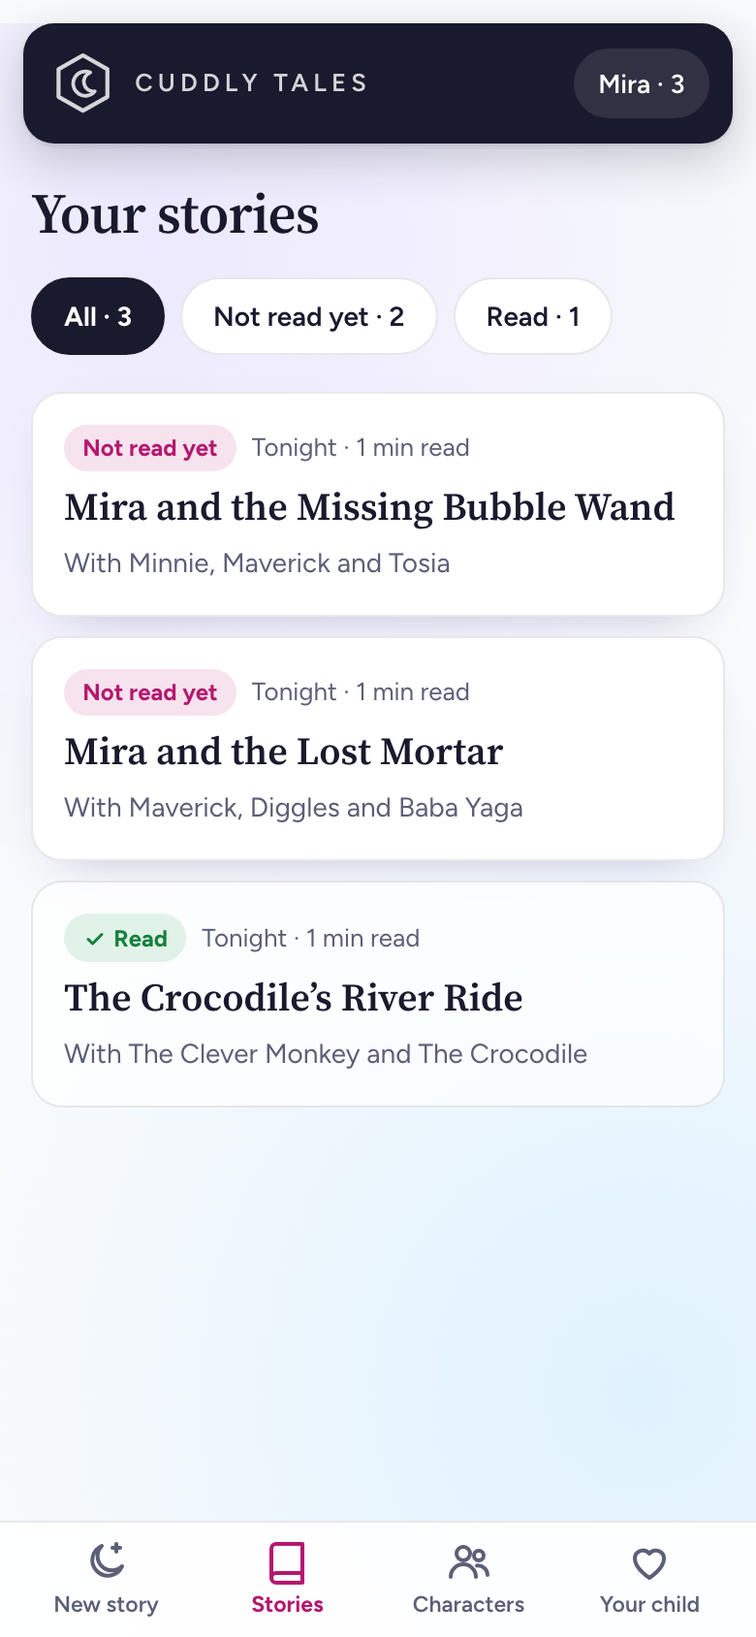
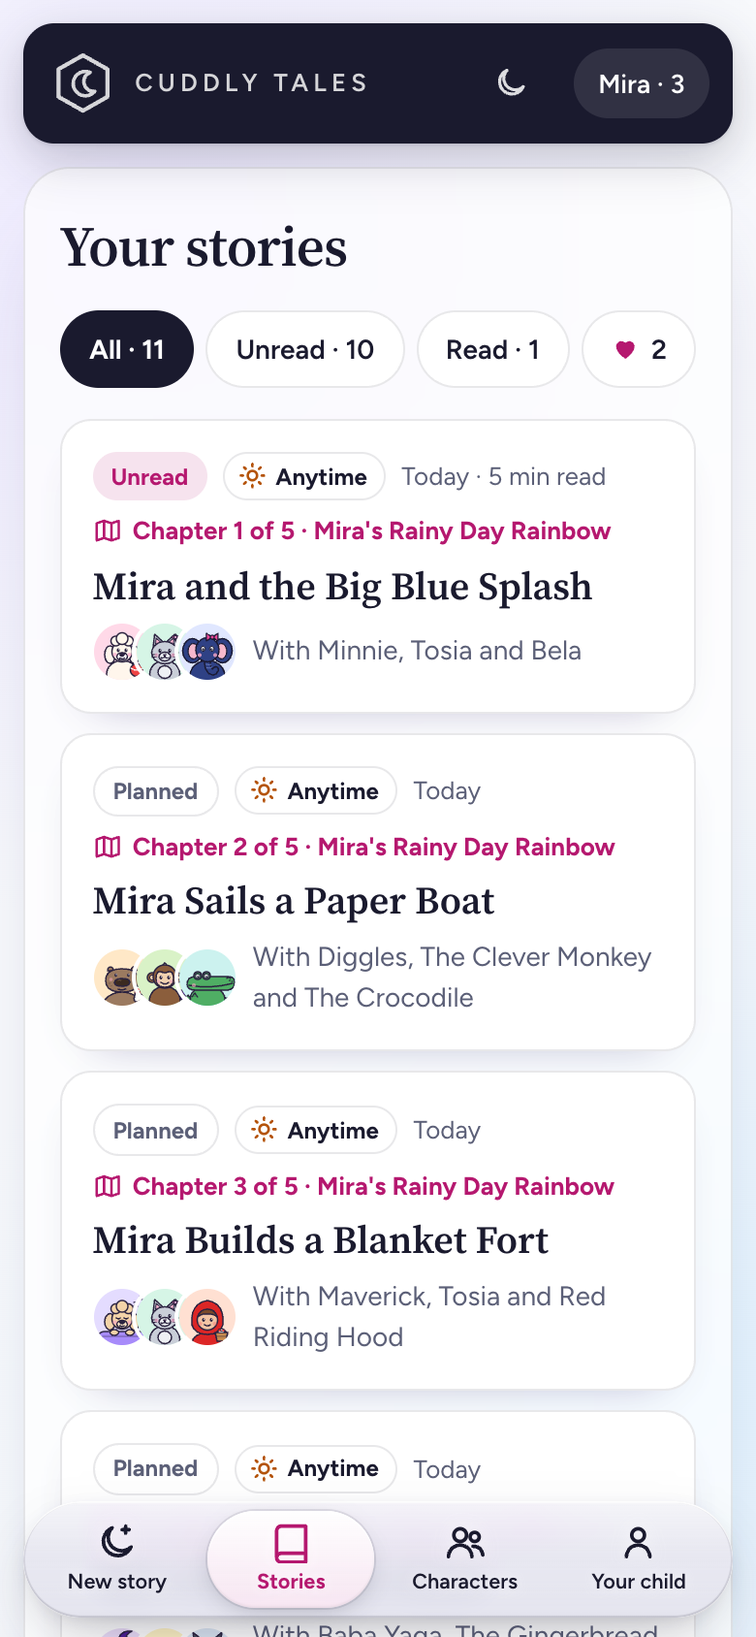
Redraw the diagrams for Day 2; a script to export them
Architecture: the planner page, the safety check, the adventure agent,
Langfuse traces and the Langfuse keys; the 18:30 job still dashed. Story
flow: the safety check and the one rewrite. scripts/export-diagrams.py
writes the README's SVGs from docs/architecture.html.

diff --git a/docs/architecture.html b/docs/architecture.html
@@ -93,14 +93,14 @@ code { font: 13px var(--font-mono); }
   <header>
     <span class="eyebrow">Live on AWS · cuddly-tales.ukdoshi.com</span>
     <h1>Cuddly Tales architecture</h1>
-    <p class="lede">A parent picks characters, an LLM writes a bedtime story starring their child, and the story streams to the phone word by word, then is saved to read again. The Angular app and the FastAPI API run on AWS, defined with the CDK, alongside ukdoshi.com and lab.ukdoshi.com. Dashed parts come next.</p>
+    <p class="lede">A parent picks characters, an LLM writes a story starring their child, a safety and age check reads it, and it streams to the phone word by word, then is saved to read again, page by page. An agent can also plan a whole adventure, one chapter a day, with every step shown. The Angular app and the FastAPI API run on AWS, defined with the CDK, alongside ukdoshi.com and lab.ukdoshi.com; every model call is traced in Langfuse. Dashed parts come next.</p>
   </header>
 
   <section>
     <h2>What runs where</h2>
     <figure>
       <div class="scroller">
-        <svg viewBox="0 0 1110 540" role="img" aria-label="Architecture: the Angular app on a phone talks to CloudFront at cuddly-tales.ukdoshi.com. CloudFront serves the app's files from S3 and sends /api requests, with a secret header, to FastAPI on AWS Lambda through a streaming Function URL. The Lambda reads its secrets from Secrets Manager, calls the Anthropic API through LiteLLM and stores data in Neon Postgres. GitHub Actions deploys everything with the CDK. Langfuse tracing and the EventBridge scheduled job come later.">
+        <svg viewBox="0 0 1110 590" role="img" aria-label="Architecture: the Angular app on a phone talks to CloudFront at cuddly-tales.ukdoshi.com. CloudFront serves the app's files from S3 and sends /api requests, with a secret header, to FastAPI on AWS Lambda through a streaming Function URL. In the Lambda, the story service streams stories and runs the safety check, the adventure agent plans adventures with tools, and llm.py calls the Anthropic API through LiteLLM and sends a trace of every call to Langfuse. Data is in Neon Postgres; secrets come from Secrets Manager. GitHub Actions deploys everything with the CDK. The EventBridge scheduled job comes next.">
           <defs>
             <marker id="a1" viewBox="0 0 10 10" refX="9" refY="5" markerWidth="7" markerHeight="7" orient="auto-start-reverse"><path d="M0,0 L10,5 L0,10 z" class="ah"/></marker>
             <marker id="a2" viewBox="0 0 10 10" refX="9" refY="5" markerWidth="6" markerHeight="6" orient="auto-start-reverse"><path d="M0,0 L10,5 L0,10 z" class="ah-acc"/></marker>
@@ -108,21 +108,27 @@ code { font: 13px var(--font-mono); }
           </defs>
 
           <!-- Phone / browser -->
-          <rect class="frame" x="20" y="60" width="176" height="270" rx="10"/>
+          <rect class="frame" x="20" y="60" width="176" height="384" rx="10"/>
           <text class="t" x="34" y="84">Phone or browser</text>
           <text class="s" x="34" y="100">Angular app</text>
           <rect class="box-acc" x="32" y="110" width="152" height="44" rx="6"/>
-          <text class="t" x="42" y="128">Pick + stream</text>
-          <text class="s" x="42" y="145">/new · EventSource</text>
-          <rect class="box" x="32" y="164" width="152" height="44" rx="6"/>
-          <text class="t" x="42" y="182">Stories</text>
-          <text class="s" x="42" y="199">read · edit · delete</text>
-          <rect class="box" x="32" y="218" width="152" height="44" rx="6"/>
-          <text class="t" x="42" y="236">Characters</text>
-          <text class="s" x="42" y="253">add · edit · delete</text>
+          <text class="t" x="42" y="128">Write</text>
+          <text class="s" x="42" y="145">story or adventure</text>
+          <rect class="box-acc" x="32" y="164" width="152" height="44" rx="6"/>
+          <text class="t" x="42" y="182">Read</text>
+          <text class="s" x="42" y="199">streamed · in pages</text>
+          <rect class="box-acc" x="32" y="218" width="152" height="44" rx="6"/>
+          <text class="t" x="42" y="236">Planner</text>
+          <text class="s" x="42" y="253">agent steps, live</text>
           <rect class="box" x="32" y="272" width="152" height="44" rx="6"/>
-          <text class="t" x="42" y="290">Your child</text>
-          <text class="s" x="42" y="307">/profile</text>
+          <text class="t" x="42" y="290">Stories</text>
+          <text class="s" x="42" y="307">unread · read · ♥</text>
+          <rect class="box" x="32" y="326" width="152" height="44" rx="6"/>
+          <text class="t" x="42" y="344">Characters</text>
+          <text class="s" x="42" y="361">add · edit · delete</text>
+          <rect class="box" x="32" y="380" width="152" height="44" rx="6"/>
+          <text class="t" x="42" y="398">Your child</text>
+          <text class="s" x="42" y="415">name · age · likes</text>
 
           <!-- CloudFront -->
           <rect class="box" x="280" y="60" width="180" height="162" rx="8"/>
@@ -137,53 +143,58 @@ code { font: 13px var(--font-mono); }
           <text class="s" x="280" y="242">Route 53 alias · ACM cert</text>
 
           <!-- AWS account -->
-          <rect class="frame" x="510" y="20" width="410" height="410" rx="12"/>
+          <rect class="frame" x="510" y="20" width="410" height="460" rx="12"/>
           <text class="t" x="526" y="44">AWS · us-east-1</text>
           <text class="s" x="526" y="60">CDK stack CuddlyTalesSite</text>
           <rect class="box" x="530" y="164" width="150" height="44" rx="6"/>
           <text class="t" x="542" y="182">S3 bucket</text>
           <text class="s" x="542" y="199">Angular build</text>
-          <rect class="box" x="530" y="284" width="150" height="40" rx="6"/>
-          <text class="t" x="542" y="301">Secrets Manager</text>
-          <text class="s" x="542" y="317">Claude key · DB URL</text>
-          <rect class="box-later" x="530" y="356" width="150" height="40" rx="6"/>
-          <text class="t-later" x="542" y="373">EventBridge</text>
-          <text class="s" x="542" y="389">18:30 job · Day 3</text>
+          <rect class="box" x="530" y="344" width="150" height="56" rx="6"/>
+          <text class="t" x="542" y="362">Secrets Manager</text>
+          <text class="s" x="542" y="378">Claude key · DB URL</text>
+          <text class="s" x="542" y="392">Langfuse keys</text>
+          <rect class="box-later" x="530" y="422" width="150" height="40" rx="6"/>
+          <text class="t-later" x="542" y="439">EventBridge</text>
+          <text class="s" x="542" y="455">18:30 · Day 3</text>
 
           <!-- Lambda -->
-          <rect class="frame" x="710" y="60" width="190" height="280" rx="10"/>
+          <rect class="frame" x="710" y="60" width="190" height="352" rx="10"/>
           <text class="t" x="722" y="84">Lambda (arm64)</text>
           <text class="s" x="722" y="100">FastAPI · Web Adapter</text>
           <rect class="box" x="722" y="112" width="166" height="40" rx="6"/>
           <text class="t" x="732" y="129">API routers</text>
           <text class="s" x="732" y="145">origin check · cap</text>
-          <rect class="box-acc" x="722" y="168" width="166" height="44" rx="6"/>
-          <text class="t" x="732" y="186">Story service</text>
-          <text class="s" x="732" y="203">prompt · words · save</text>
-          <rect class="box" x="722" y="228" width="166" height="40" rx="6"/>
-          <text class="t" x="732" y="245">llm.py</text>
-          <text class="s" x="732" y="261">LiteLLM, loaded lazily</text>
-          <rect class="box" x="722" y="284" width="166" height="40" rx="6"/>
-          <text class="t" x="732" y="301">SQLModel</text>
-          <text class="s" x="732" y="317">Alembic at start</text>
+          <rect class="box-acc" x="722" y="166" width="166" height="44" rx="6"/>
+          <text class="t" x="732" y="184">Story service</text>
+          <text class="s" x="732" y="201">stream · safety check</text>
+          <rect class="box" x="722" y="224" width="166" height="44" rx="6"/>
+          <text class="t" x="732" y="242">Adventure agent</text>
+          <text class="s" x="732" y="259">7 tools · steps saved</text>
+          <rect class="box" x="722" y="282" width="166" height="52" rx="6"/>
+          <text class="t" x="732" y="300">llm.py</text>
+          <text class="s" x="732" y="316">LiteLLM 1.91.5 (pinned)</text>
+          <text class="s" x="732" y="329">every call traced</text>
+          <rect class="box" x="722" y="350" width="166" height="44" rx="6"/>
+          <text class="t" x="732" y="368">SQLModel</text>
+          <text class="s" x="732" y="385">Alembic at start</text>
 
           <!-- Outside AWS -->
-          <rect class="box-later" x="960" y="168" width="130" height="40" rx="6"/>
-          <text class="t-later" x="972" y="185">Langfuse</text>
-          <text class="s" x="972" y="201">traces · Day 2</text>
-          <rect class="box-acc" x="960" y="228" width="130" height="40" rx="6"/>
-          <text class="t" x="972" y="245">Anthropic API</text>
-          <text class="s" x="972" y="261">claude-opus-5-5</text>
-          <rect class="box" x="960" y="284" width="130" height="40" rx="6"/>
-          <text class="t" x="972" y="301">Neon Postgres</text>
-          <text class="s" x="972" y="317">us-east-1</text>
+          <rect class="box-acc" x="960" y="268" width="140" height="40" rx="6"/>
+          <text class="t" x="972" y="285">Anthropic API</text>
+          <text class="s" x="972" y="301">claude-opus-5-5</text>
+          <rect class="box" x="960" y="320" width="140" height="40" rx="6"/>
+          <text class="t" x="972" y="337">Langfuse</text>
+          <text class="s" x="972" y="353">every model call</text>
+          <rect class="box" x="960" y="372" width="140" height="40" rx="6"/>
+          <text class="t" x="972" y="389">Neon Postgres</text>
+          <text class="s" x="972" y="405">us-east-1</text>
 
           <!-- GitHub Actions -->
-          <rect class="box" x="530" y="470" width="370" height="48" rx="6"/>
-          <text class="t" x="542" y="490">GitHub Actions</text>
-          <text class="s" x="542" y="507">PRs: tests · main: tests → build → cdk deploy</text>
-          <line class="ln" x1="715" y1="470" x2="715" y2="432" marker-end="url(#a1)"/>
-          <text class="lbl" x="724" y="455">deploys (OIDC)</text>
+          <rect class="box" x="530" y="520" width="370" height="48" rx="6"/>
+          <text class="t" x="542" y="540">GitHub Actions</text>
+          <text class="s" x="542" y="557">PRs: tests · main: tests → build → cdk deploy</text>
+          <line class="ln" x1="715" y1="520" x2="715" y2="482" marker-end="url(#a1)"/>
+          <text class="lbl" x="724" y="505">deploys (OIDC)</text>
 
           <!-- Phone <-> CloudFront -->
           <line class="ln-acc" x1="198" y1="132" x2="278" y2="132" marker-start="url(#a2)" marker-end="url(#a2)"/>
@@ -198,24 +209,26 @@ code { font: 13px var(--font-mono); }
           <text class="lbl" x="494" y="179" text-anchor="middle">read</text>
 
           <!-- Inside Lambda -->
-          <line class="ln" x1="805" y1="152" x2="805" y2="168" marker-end="url(#a1)"/>
-          <line class="ln" x1="790" y1="212" x2="790" y2="228" marker-end="url(#a1)"/>
-          <line class="ln-acc" x1="820" y1="228" x2="820" y2="212" marker-end="url(#a2)"/>
-          <line class="ln" x1="805" y1="268" x2="805" y2="284" marker-end="url(#a1)"/>
-          <line class="ln" x1="710" y1="304" x2="682" y2="304" marker-end="url(#a1)"/>
-          <text class="lbl" x="605" y="342" text-anchor="middle">read at start</text>
-          <path class="ln-later" d="M680,376 H805 V342" marker-end="url(#a3)"/>
+          <line class="ln" x1="805" y1="152" x2="805" y2="166" marker-end="url(#a1)"/>
+          <path class="ln" d="M888,140 H896 V246 H890" marker-end="url(#a1)"/>
+          <path class="ln" d="M722,196 H715 V300 H720" marker-end="url(#a1)"/>
+          <line class="ln" x1="840" y1="268" x2="840" y2="282" marker-end="url(#a1)"/>
+          <line class="ln" x1="805" y1="334" x2="805" y2="350" marker-end="url(#a1)"/>
+          <line class="ln" x1="710" y1="372" x2="682" y2="372" marker-end="url(#a1)"/>
+          <text class="lbl" x="605" y="338" text-anchor="middle">read at start</text>
+          <path class="ln-later" d="M680,442 H805 V414" marker-end="url(#a3)"/>
 
           <!-- Lambda <-> outside -->
-          <line class="ln" x1="888" y1="240" x2="958" y2="240" marker-end="url(#a1)"/>
-          <line class="ln-acc" x1="958" y1="256" x2="890" y2="256" marker-end="url(#a2)"/>
-          <text class="lbl-acc" x="924" y="233" text-anchor="middle">stream</text>
-          <line class="ln" x1="888" y1="304" x2="958" y2="304" marker-start="url(#a1)" marker-end="url(#a1)"/>
-          <text class="lbl" x="924" y="297" text-anchor="middle">SQL</text>
-          <line class="ln-later" x1="888" y1="232" x2="958" y2="200" marker-end="url(#a3)"/>
+          <line class="ln" x1="888" y1="284" x2="958" y2="284" marker-end="url(#a1)"/>
+          <line class="ln-acc" x1="958" y1="296" x2="890" y2="296" marker-end="url(#a2)"/>
+          <text class="lbl-acc" x="924" y="278" text-anchor="middle">stream</text>
+          <line class="ln" x1="888" y1="328" x2="958" y2="336" marker-end="url(#a1)"/>
+          <text class="lbl" x="924" y="349" text-anchor="middle">spans</text>
+          <line class="ln" x1="888" y1="384" x2="958" y2="390" marker-start="url(#a1)" marker-end="url(#a1)"/>
+          <text class="lbl" x="924" y="378" text-anchor="middle">SQL</text>
         </svg>
       </div>
-      <figcaption>CloudFront serves the Angular app from S3 and sends <code>/api/*</code> to FastAPI on Lambda through a streaming Function URL, adding a secret header the API checks, so the Lambda can't be reached around CloudFront. The warm path is the stream: Anthropic sends token chunks through LiteLLM, the story service regroups them into whole words, and Server-Sent Events carry each word back through CloudFront to the phone. Locally the same app runs with SQLite instead of Neon; only <code>DATABASE_URL</code> changes.</figcaption>
+      <figcaption>CloudFront serves the Angular app from S3 and sends <code>/api/*</code> to FastAPI on Lambda through a streaming Function URL, adding a secret header the API checks, so the Lambda can't be reached around CloudFront. The warm paths are streams: Anthropic sends token chunks through LiteLLM, the story service regroups them into whole words, and Server-Sent Events carry each word back through CloudFront to the phone; the planner page streams the agent's steps the same way. All model calls go through <code>llm.py</code>, which sends a trace of each to Langfuse (OpenTelemetry) before the response ends. Locally the same app runs with SQLite instead of Neon; only <code>DATABASE_URL</code> changes.</figcaption>
       <div class="legend">
         <span><i></i>live now</span>
         <span><i class="acc"></i>streaming path</span>
@@ -228,7 +241,7 @@ code { font: 13px var(--font-mono); }
     <h2>One story, start to finish</h2>
     <figure>
       <div class="scroller">
-        <svg viewBox="0 0 1000 556" role="img" aria-label="Sequence: Angular loads the child profile and characters, posts a new story (FastAPI checks the daily cap), opens an EventSource stream, receives one word event per word while FastAPI on Lambda reads token chunks from LiteLLM, then FastAPI saves the full text to Neon Postgres and sends a done event with the story id.">
+        <svg viewBox="0 0 1000 690" role="img" aria-label="Sequence: Angular loads the child profile and characters, posts a new story (FastAPI checks the daily cap), and opens an EventSource stream. FastAPI on Lambda reads token chunks from LiteLLM and sends one word event per word. Then it sends a checking event and asks the model, as a judge, for a structured verdict; if the story fails, it sends a rewriting event, streams a rewrite and checks again, once. It saves the text with the safety result to Neon Postgres and sends a done event.">
           <defs>
             <marker id="b1" viewBox="0 0 10 10" refX="9" refY="5" markerWidth="7" markerHeight="7" orient="auto-start-reverse"><path d="M0,0 L10,5 L0,10 z" class="ah"/></marker>
             <marker id="b2" viewBox="0 0 10 10" refX="9" refY="5" markerWidth="6" markerHeight="6" orient="auto-start-reverse"><path d="M0,0 L10,5 L0,10 z" class="ah-acc"/></marker>
@@ -243,10 +256,10 @@ code { font: 13px var(--font-mono); }
           <text class="t" x="680" y="41" text-anchor="middle">LiteLLM → Anthropic</text>
           <rect class="box" x="810" y="16" width="160" height="40" rx="6"/>
           <text class="t" x="890" y="41" text-anchor="middle">Neon Postgres</text>
-          <line class="life" x1="120" y1="56" x2="120" y2="540"/>
-          <line class="life" x1="400" y1="56" x2="400" y2="540"/>
-          <line class="life" x1="680" y1="56" x2="680" y2="540"/>
-          <line class="life" x1="890" y1="56" x2="890" y2="540"/>
+          <line class="life" x1="120" y1="56" x2="120" y2="676"/>
+          <line class="life" x1="400" y1="56" x2="400" y2="676"/>
+          <line class="life" x1="680" y1="56" x2="680" y2="676"/>
+          <line class="life" x1="890" y1="56" x2="890" y2="676"/>
 
           <!-- 1 load -->
           <line class="ln" x1="120" y1="96" x2="398" y2="96" marker-end="url(#b1)"/>
@@ -254,7 +267,7 @@ code { font: 13px var(--font-mono); }
           <line class="ln" x1="400" y1="120" x2="888" y2="120" marker-end="url(#b1)"/>
           <text class="lbl" x="645" y="113" text-anchor="middle">select child + cast</text>
           <line class="ln ret" x1="400" y1="144" x2="122" y2="144" marker-end="url(#b1)"/>
-          <text class="lbl" x="260" y="137" text-anchor="middle">Mira + 10 characters</text>
+          <text class="lbl" x="260" y="137" text-anchor="middle">Mira + her cast</text>
 
           <!-- 2 create -->
           <line class="ln" x1="120" y1="196" x2="398" y2="196" marker-end="url(#b1)"/>
@@ -268,7 +281,7 @@ code { font: 13px var(--font-mono); }
           <line class="ln-acc" x1="120" y1="296" x2="398" y2="296" marker-end="url(#b2)"/>
           <text class="lbl-acc" x="260" y="289" text-anchor="middle">3  GET /api/stories/{id}/stream</text>
           <line class="ln" x1="400" y1="320" x2="678" y2="320" marker-end="url(#b1)"/>
-          <text class="lbl" x="540" y="313" text-anchor="middle">acompletion(stream=True)</text>
+          <text class="lbl" x="540" y="313" text-anchor="middle">prompt: cast, rules, stories told</text>
           <rect class="loop" x="40" y="336" width="740" height="92" rx="6"/>
           <text class="s" x="50" y="353">loop · each chunk (keep-alive comment if quiet for 15s)</text>
           <line class="ln-acc ret" x1="680" y1="374" x2="402" y2="374" marker-end="url(#b2)"/>
@@ -276,18 +289,29 @@ code { font: 13px var(--font-mono); }
           <line class="ln-acc" x1="400" y1="408" x2="122" y2="408" marker-end="url(#b2)"/>
           <text class="lbl-acc" x="260" y="401" text-anchor="middle">event: word</text>
 
-          <!-- 4 save -->
-          <line class="ln" x1="400" y1="462" x2="888" y2="462" marker-end="url(#b1)"/>
-          <text class="lbl" x="645" y="455" text-anchor="middle">update text · written · word count</text>
-          <line class="ln-acc" x1="400" y1="490" x2="122" y2="490" marker-end="url(#b2)"/>
-          <text class="lbl-acc" x="260" y="483" text-anchor="middle">4  event: done {id}</text>
+          <!-- 4 check -->
+          <line class="ln-acc" x1="400" y1="460" x2="122" y2="460" marker-end="url(#b2)"/>
+          <text class="lbl-acc" x="260" y="453" text-anchor="middle">4  event: checking</text>
+          <line class="ln" x1="400" y1="484" x2="678" y2="484" marker-end="url(#b1)"/>
+          <text class="lbl" x="540" y="477" text-anchor="middle">judge: structured verdict</text>
+          <line class="ln ret" x1="680" y1="508" x2="402" y2="508" marker-end="url(#b1)"/>
+          <text class="lbl" x="540" y="501" text-anchor="middle">scariness · rules · new?</text>
+          <rect class="loop" x="40" y="522" width="740" height="46" rx="6"/>
+          <text class="s" x="50" y="539">if it fails, once: event: rewriting, stream the rewrite, check again</text>
+          <text class="s" x="50" y="556">still fails, or the check can't run: saved as "Read first"</text>
 
-          <!-- 5 view -->
-          <line class="ln" x1="120" y1="530" x2="398" y2="530" marker-end="url(#b1)"/>
-          <text class="lbl" x="260" y="523" text-anchor="middle">5  GET /api/stories/{id}</text>
+          <!-- 5 save -->
+          <line class="ln" x1="400" y1="600" x2="888" y2="600" marker-end="url(#b1)"/>
+          <text class="lbl" x="645" y="593" text-anchor="middle">update text · written · safety result</text>
+          <line class="ln-acc" x1="400" y1="628" x2="122" y2="628" marker-end="url(#b2)"/>
+          <text class="lbl-acc" x="260" y="621" text-anchor="middle">5  event: done {id, safety}</text>
+
+          <!-- 6 view -->
+          <line class="ln" x1="120" y1="666" x2="398" y2="666" marker-end="url(#b1)"/>
+          <text class="lbl" x="260" y="659" text-anchor="middle">6  GET /api/stories/{id} · read in pages</text>
         </svg>
       </div>
-      <figcaption>The story row exists before any text arrives, so the stream has an id to save into. FastAPI sends each word as soon as it is whole and writes the full text once, when the model finishes. If the model call fails, the browser gets <code>event: error</code> and the story stays <code>planned</code>, so nothing half-written is saved. The browser uses a GET request for the stream because <code>EventSource</code> only supports GET. Past 30 new stories in 24 hours, the create step returns 429 and the page says to come back tomorrow.</figcaption>
+      <figcaption>The story row exists before any text arrives, so the stream has an id to save into. FastAPI sends each word as soon as it is whole, then the safety and age check reads the finished story: plain rules plus the model as a judge (scariness, reading level, every character's running jokes, the right ending, and not a repeat of an earlier story). A story that fails is rewritten once, streamed in place; the full text is written once, with the check's result. If the model call fails, the browser gets <code>event: error</code> and the story stays <code>planned</code>, so nothing half-written is saved. The browser uses a GET request for the stream because <code>EventSource</code> only supports GET. Past 30 new stories in 24 hours, the create step returns 429 and the page says to come back tomorrow.</figcaption>
     </figure>
   </section>
 
@@ -297,19 +321,21 @@ code { font: 13px var(--font-mono); }
       <div>
         <h3>Done</h3>
         <ul>
-          <li>Pick characters, generate, watch the story stream word by word</li>
-          <li>Create, view, edit and delete characters and stories; mark stories read</li>
-          <li>Child profile; demo family seeded on first start</li>
+          <li>Pick characters, generate, watch the story stream word by word; read it in pages, like an e-reader</li>
+          <li>Safety and age check on every story, with one rewrite; nothing repeats an earlier story</li>
+          <li>Adventure agent: plans an adventure with 7 tools, one chapter a day, every step shown live</li>
+          <li>Create, view, edit and delete characters and stories; favourites; the child's profile</li>
+          <li>Langfuse tracing of every model call, live and local</li>
           <li>Live on AWS with the CDK; GitHub Actions tests every PR and deploys main</li>
-          <li>Daily story cap; Alembic migrations; pytest for every endpoint</li>
         </ul>
       </div>
       <div>
         <h3>Next</h3>
         <ul>
-          <li>Mobile-first design in the style of ukdoshi.com</li>
-          <li>Safety and age check, Langfuse tracing, adventure agent, latte monsters</li>
-          <li>Storyboard drag and drop, dashboard, 18:30 scheduled chapter, evals</li>
+          <li>Storyboard drag and drop for plot cards</li>
+          <li>Dashboard from real app data</li>
+          <li>18:30 scheduled chapter, with "Run now"</li>
+          <li>Evals; README screenshots and polish</li>
         </ul>
       </div>
     </div>

diff --git a/scripts/export-diagrams.py b/scripts/export-diagrams.py
@@ -1,0 +1,19 @@
+"""Writes docs/architecture.svg and docs/story-flow.svg from the inline drawings in docs/architecture.html,
+with the page's colours (light, and dark via prefers-color-scheme) and the SVG part styles embedded.
+
+    python3 scripts/export-diagrams.py docs
+"""
+import re, sys, pathlib
+docs = pathlib.Path(sys.argv[1])
+html = (docs / "architecture.html").read_text()
+css = html[html.index("/* SVG parts"):html.index("</style>")]
+light = "--bg:#ffffff;--fg:#1b2230;--muted:#5d6676;--line-strong:#8a93a3;--accent:#b86e0a;--accent-soft:#fbefd9;--accent-ink:#8a5207;--surface:#ffffff"
+dark = "--bg:#18202c;--fg:#e4e8ef;--muted:#98a2b3;--line-strong:#5b6678;--accent:#f2b35a;--accent-soft:#2d2416;--accent-ink:#f2b35a;--surface:#18202c"
+fonts = '--font-head:ui-sans-serif,system-ui,-apple-system,"Segoe UI",sans-serif;--font-body:ui-sans-serif,system-ui,-apple-system,"Segoe UI",sans-serif;--font-mono:ui-monospace,"SF Mono",Menlo,Consolas,monospace'
+style = f"<style>svg{{{light}}}@media (prefers-color-scheme: dark){{svg{{{dark}}}}}svg{{{fonts}}}.bg{{fill:var(--bg)}}{css}</style>"
+svgs = re.findall(r"<svg viewBox=\"0 0 (\d+) (\d+)\"(.*?)>(.*?)</svg>", html, re.S)
+for (w, h, attrs, body), name in zip(svgs, ["architecture.svg", "story-flow.svg"]):
+    out = (f'<svg xmlns="http://www.w3.org/2000/svg" width="{w}" height="{h}" viewBox="0 0 {w} {h}"{attrs}>\n'
+           f"          {style}\n          <rect class=\"bg\" width=\"{w}\" height=\"{h}\" rx=\"12\"/>{body}</svg>\n")
+    (docs / name).write_text(out)
+    print(name, w, h, len(out))
